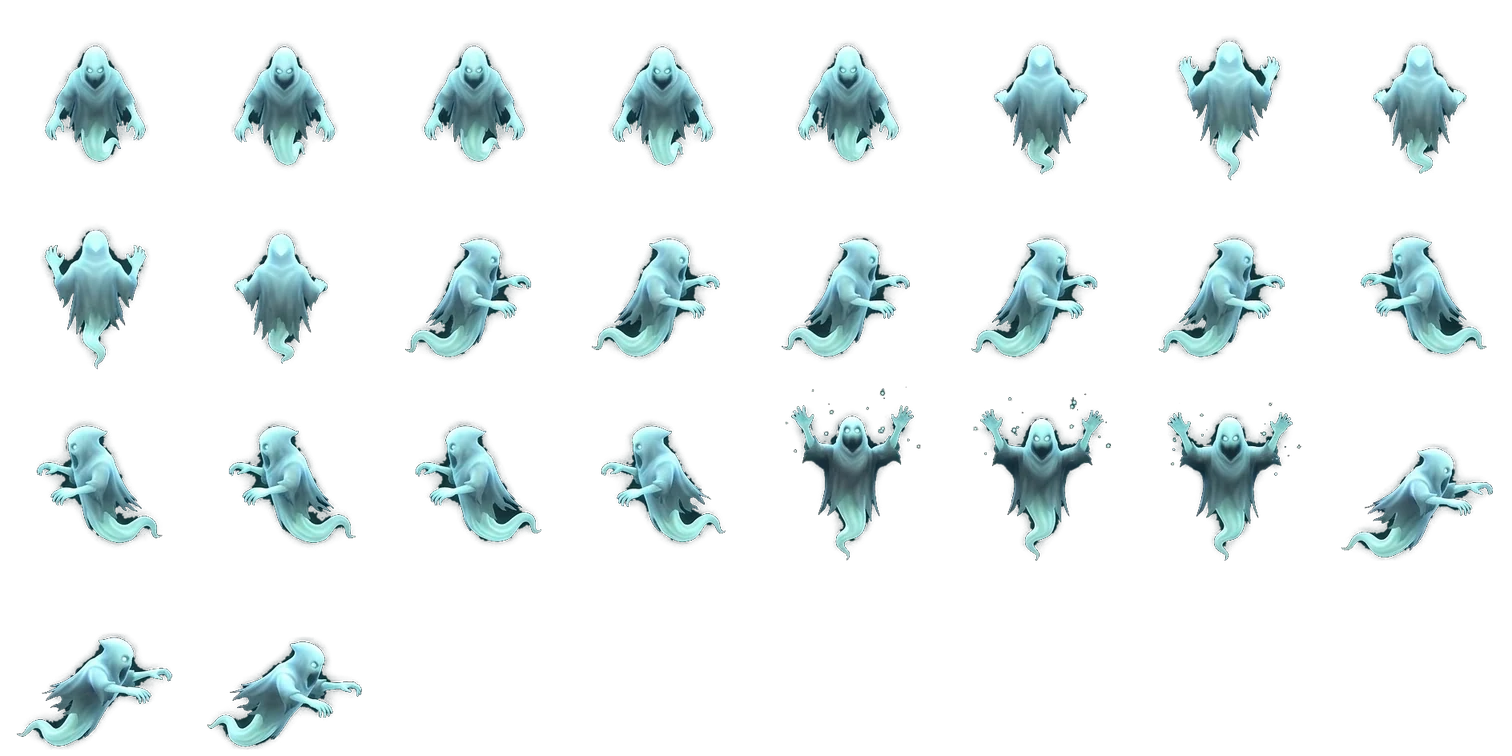
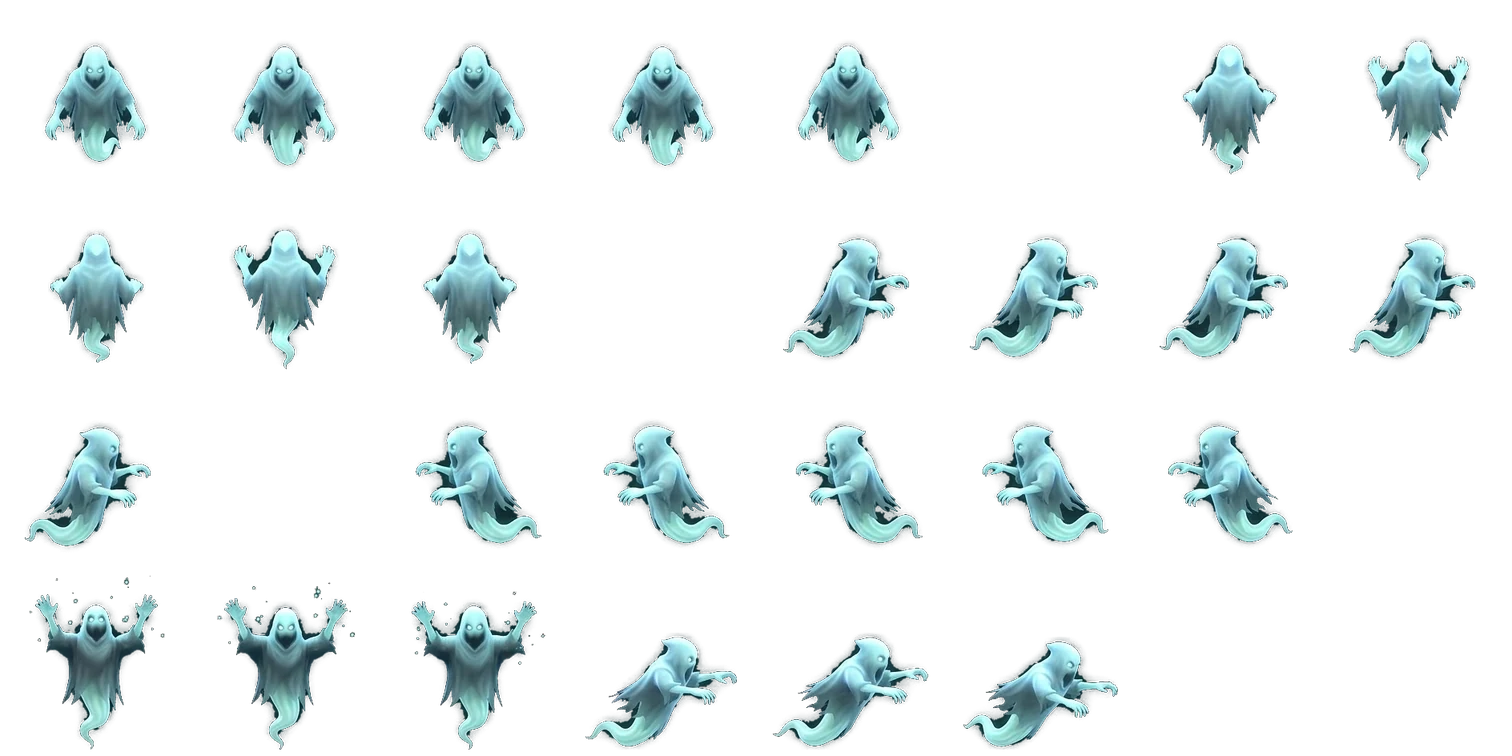
Thornbound: pixel-art heroes
Three supplied pixel-art sheets replace the painted heroes:
- Wanderer is the sorceress (keeps the casting pose when shooting still)
- Thornknight is the sword-and-shield queen
- Seer becomes the Shade, a dual-knife ninja

build_assets.py finds every figure on a pixel sheet and builds each
walk from a per-sheet list of usable frames: frames facing the wrong
way, swapping props mid-walk or repeating a neighbour are left out, and
the queen's left walk mirrors her right. Every atlas now has 6 walk slots
per direction and the game reads how many each sheet fills. The painted
wizard and rogue sheets are removed; monsters keep their painted art.

Claude-Session: https://claude.ai/code/session_014pmKHhP1nRV4NF2kc2q9vi

diff --git a/thornbound/game.js b/thornbound/game.js
@@ -14,21 +14,24 @@ const FINAL_FLOOR = 4;
 const DIRS = { n: [0, -1], s: [0, 1], w: [-1, 0], e: [1, 0] };
 const OPP = { n: 's', s: 'n', w: 'e', e: 'w' };
 
-// Painted sprite sheets (built by tools/build_assets.py). Every sheet has the same frames:
-// 4 walk rows of 5 (down, up, right, left) then attack poses A1-A3 (facing you) and B1-B3 (facing right).
-const FRAME_NAMES = ['down0', 'down1', 'down2', 'down3', 'down4', 'up0', 'up1', 'up2', 'up3', 'up4', 'right0', 'right1', 'right2', 'right3', 'right4',
-  'left0', 'left1', 'left2', 'left3', 'left4', 'A1', 'A2', 'A3', 'B1', 'B2', 'B3'];
+// Sprite sheets (built by tools/build_assets.py): pixel-art heroes and painted monsters. Every atlas
+// has the same frames: 6 walk slots per direction (down, up, right, left; WALK says how many a sheet
+// fills), then attack poses A1-A3 (facing you) and B1-B3 (facing right).
+const FRAME_NAMES = [...['down', 'up', 'right', 'left'].flatMap((d) => [0, 1, 2, 3, 4, 5].map((i) => d + i)), 'A1', 'A2', 'A3', 'B1', 'B2', 'B3'];
 const FRAME = Object.fromEntries(FRAME_NAMES.map((n, i) => [n, i]));
 const ATLAS = { cols: 8, cell: { 0.44: 104, 0.8: 189 }, foot: 8 }; // foot: source px between feet and cell bottom
 // which attack poses each sheet uses: [windup, strike] when facing you, and when facing sideways
 const POSES = {
-  wizard: { down: ['A1', 'A1'], side: ['B1', 'B1'] },
-  rogue: { down: ['A2', 'A3'], side: ['B2', 'B3'] },
+  sorceress: { down: ['A1', 'A1'], side: ['B1', 'B1'] },
+  queen: { down: ['A1', 'A2'], side: ['B1', 'B2'] },
+  ninja: { down: ['A1', 'A2'], side: ['B1', 'B2'] },
   skeleton: { down: ['A2', 'A3'], side: ['B1', 'B2'] },
   goblin: { down: ['A2', 'A3'], side: ['B1', 'B2'] },
   ghost: { down: ['A1', 'A2'], side: ['B1', 'B2'] },
 };
 const WORLD_SCALE = 0.245; // world units per source pixel for normal-size characters
+const HERO_SCALE = { queen: 0.8, ninja: 0.8, sorceress: 0.8 }; // pixel heroes use the sharper atlas
+const CASTERS = new Set(['sorceress']); // heroes with a casting pose when they shoot standing still
 
 const THEMES = [
   { name: 'Overgrown Ruins', tint: '#c9d3c1', dark: 0.30, wall: [60, 68, 72], moss: '#3f6234', rune: '#4fc3ff' },
@@ -102,7 +105,7 @@ const META = [
 const FEATS = {
   warlord: { name: "Warlord's Bane", desc: 'Slay the Goblin Warlord', reward: 'Unlocks the Thornknight' },
   banshee: { name: 'Silence', desc: 'Slay the Banshee', reward: 'Unlocks the Blood Rune skill' },
-  depths: { name: 'Into the Depths', desc: 'Reach floor 3', reward: 'Unlocks the Seer' },
+  depths: { name: 'Into the Depths', desc: 'Reach floor 3', reward: 'Unlocks the Shade' },
   twins: { name: 'Twin Fall', desc: 'Defeat the Twin Guardians', reward: 'Unlocks the Ricochet skill' },
   victory: { name: 'Unbound', desc: 'Destroy the Thornheart', reward: 'Unlocks the Revenant and Ascension' },
   slayer: { name: 'Slayer', desc: 'Slay 200 foes in total', reward: 'Unlocks the Orbiting Crystal skill' },
@@ -115,11 +118,11 @@ const FEATS = {
 const SKILL_LOCK = { vamp: 'banshee', bounce: 'twins', orbit: 'slayer', rear: 'hoarder', frost: 'level10' };
 
 const CHARS = {
-  wanderer: { name: 'Wanderer', desc: 'A travelling wizard. 3 hearts, balanced crystal shards.', lock: null, sheet: 'wizard',
+  wanderer: { name: 'Wanderer', desc: 'A travelling sorceress. 3 hearts, balanced crystal shards.', lock: null, sheet: 'sorceress',
     hp: 6, dmg: 3.5, fd: 0.42, speed: 118, range: 200, shot: 230, skills: {} },
-  thornknight: { name: 'Thornknight', desc: '4 hearts, heavy slow shards, slower feet. Starts with Thorn Mantle.', lock: 'warlord', sheet: 'rogue',
+  thornknight: { name: 'Thornknight', desc: '4 hearts, heavy slow shards, slower feet. Starts with Thorn Mantle.', lock: 'warlord', sheet: 'queen',
     hp: 8, dmg: 4.6, fd: 0.56, speed: 106, range: 175, shot: 215, skills: { mantle: 1 } },
-  seer: { name: 'Seer', desc: '2 hearts, rapid long-range shards. Starts with Seeking Runes.', lock: 'depths', sheet: 'wizard', tint: [55, 1.1, 1],
+  seer: { name: 'Shade', desc: 'A ninja. 2 hearts, rapid long-range shards. Starts with Seeking Runes.', lock: 'depths', sheet: 'ninja',
     hp: 4, dmg: 3.0, fd: 0.32, speed: 124, range: 240, shot: 250, skills: { homing: 1 } },
   revenant: { name: 'Revenant', desc: 'A risen skeleton. 3 hearts. Starts with Split Shard and an Orbiting Crystal.', lock: 'victory', sheet: 'skeleton', tint: [165, 0.8, 1.05],
     hp: 6, dmg: 3.2, fd: 0.44, speed: 120, range: 200, shot: 230, skills: { split: 1, orbit: 1 } },
@@ -203,20 +206,23 @@ function drawFrame(S, name, x, y, mirror, flash, tilt = 0) {
   ctx.restore();
 }
 // which frame to show for a walker facing face/flip, with an optional attack pose (1 windup, 2 strike)
-// Walk frames to cycle per sheet and row; by default all five. The wizard's front walk skips
-// the two frames where the art leaves his staff out, so it doesn't blink; the rogue's first
-// back-view frame is drawn facing you, so it's skipped too.
-const WALK = { wizard: { down: [0, 1, 3] }, rogue: { up: [1, 2, 3, 4] } };
+// How many walk frames each sheet fills per row; painted sheets have five. The pixel heroes'
+// counts come from build_assets.py, which picks and orders the usable frames.
+const WALK = {
+  queen: { down: 4, up: 5, right: 4, left: 4 },
+  ninja: { down: 5, up: 5, right: 4, left: 4 },
+  sorceress: { down: 4, up: 3, right: 5, left: 5 },
+};
 function poseFrame(S, face, flip, anim, moving, pose) {
   if (pose) { const set = face === 'side' ? S.poses.side : S.poses.down; return [set[Math.min(1, pose - 1)], face === 'side' && flip]; }
   const row = face === 'side' ? (flip ? 'left' : 'right') : face;
-  const seq = (WALK[S.kind] && WALK[S.kind][row]) || [0, 1, 2, 3, 4];
-  return [row + (moving ? seq[Math.floor(anim) % seq.length] : seq[0]), false];
+  const n = (WALK[S.kind] && WALK[S.kind][row]) || 5;
+  return [row + (moving ? Math.floor(anim) % n : 0), false];
 }
 // A small bounce and sway on every step, so walking always reads as walking even where
 // neighbouring frames in the art are nearly the same.
-// The skeleton and the rogue get a heavier stomp, since their side-view walk frames barely change.
-const STEP = { skeleton: [1.9, 0.055], rogue: [1.9, 0.055] };
+// The skeleton gets a heavier stomp, since its walk frames barely change.
+const STEP = { skeleton: [1.9, 0.055] };
 function stepMotion(anim, moving, kind) {
   if (!moving) return [0, 0];
   const [lift, sway] = STEP[kind] || [1.4, 0.045];
@@ -233,7 +239,7 @@ function glowSprite(r, color) {
 const GLOW = {};
 const LIGHT = glowSprite(64, 'rgba(255,255,255,1)');
 
-// ---- hero sprite sheets, one recoloured wizard per character
+// ---- hero sprite sheets, one per character
 const CHAR_SHEETS = {};
 // hearts for the HUD (and, scaled up, the Thornheart itself), drawn as smooth shapes
 const HEARTS = {};
@@ -1538,8 +1544,8 @@ function drawPlayer() {
   if (p.inv > 0 && Math.floor(p.inv * 14) % 2 === 0 && !G.dying) return;
   const moving = hyp(p.vx, p.vy) > 8;
   // the casting pose only shows when standing still, so the legs keep walking while shooting
-  // only the wizard has a casting pose; sword-and-shield heroes keep their stance when shooting
-  const cast = p.castT > 0 && !moving && p.face !== 'up' && S.kind === 'wizard';
+  // only casters have a casting pose; blade-wielding heroes keep their stance when shooting
+  const cast = p.castT > 0 && !moving && p.face !== 'up' && CASTERS.has(S.kind);
   const [name, mirror] = poseFrame(S, p.face, p.flip, p.anim, moving, cast ? 2 : 0);
   const [bob, tilt] = stepMotion(p.anim, moving, S.kind);
   ctx.save();
@@ -1806,7 +1812,7 @@ function drawPortrait(pc, S, glow) {
   x.clearRect(0, 0, W, H);
   if (glow) { const g = x.createRadialGradient(W / 2, H * 0.55, 4, W / 2, H * 0.55, W * 0.6); g.addColorStop(0, 'rgba(79,195,255,0.28)'); g.addColorStop(1, 'rgba(0,0,0,0)'); x.fillStyle = g; x.fillRect(0, 0, W, H); }
   const k = Math.min(W / (c * 0.6), H / (c * 0.8)), w = c * k;
-  x.drawImage(S.img, (i % ATLAS.cols) * c, Math.floor(i / ATLAS.cols) * c, c, c, (W - w) / 2, H - w + ATLAS.foot * k * 0.44, w, w);
+  x.drawImage(S.img, (i % ATLAS.cols) * c, Math.floor(i / ATLAS.cols) * c, c, c, (W - w) / 2, H - w + S.foot * k, w, w);
 }
 function lvKey(k) {
   if (!LV) return;
@@ -1864,7 +1870,8 @@ async function boot() {
   await Promise.all([
     loadImg('goblin', 'assets/goblin@0.44.webp'), loadImg('goblinBig', 'assets/goblin@0.8.webp'),
     loadImg('ghost', 'assets/ghost@0.44.webp'), loadImg('ghostBig', 'assets/ghost@0.8.webp'),
-    loadImg('wizard', 'assets/wizard@0.44.webp'), loadImg('rogue', 'assets/rogue@0.44.webp'), loadImg('skeleton', 'assets/skeleton@0.44.webp'),
+    loadImg('sorceress', 'assets/sorceress@0.8.webp'), loadImg('queen', 'assets/queen@0.8.webp'), loadImg('ninja', 'assets/ninja@0.8.webp'),
+    loadImg('skeleton', 'assets/skeleton@0.44.webp'),
     loadImg('c16', 'assets/crystal32.webp'), loadImg('c32', 'assets/crystal64.webp'), loadImg('floor', 'assets/floor.jpg'),
   ]);
   try { await Promise.all(['700 12px "Cinzel"', '400 12px "Alegreya Sans"', '700 12px "Alegreya Sans"'].map((f) => document.fonts.load(f))); } catch (e) {}
@@ -1878,7 +1885,7 @@ async function boot() {
   SHEETS.ghostB = makeSheet('ghost', 0.8, variant(IMG.ghostBig, 140, 1.4, 1), BOSS);
   GLOW.cyan = glowSprite(16, 'rgba(90,200,255,0.9)'); GLOW.teal = glowSprite(16, 'rgba(110,240,210,0.8)'); GLOW.violet = glowSprite(16, 'rgba(200,110,255,0.85)');
   GLOW.green = glowSprite(16, 'rgba(140,220,90,0.7)'); GLOW.red = glowSprite(16, 'rgba(255,80,90,0.8)'); GLOW.gold = glowSprite(16, 'rgba(255,200,100,0.8)');
-  for (const id in CHARS) { const c = CHARS[id], img = IMG[c.sheet]; CHAR_SHEETS[id] = makeSheet(c.sheet, 0.44, c.tint ? variant(img, ...c.tint) : img); }
+  for (const id in CHARS) { const c = CHARS[id], img = IMG[c.sheet]; CHAR_SHEETS[id] = makeSheet(c.sheet, HERO_SCALE[c.sheet] || 0.44, c.tint ? variant(img, ...c.tint) : img); }
   buildHearts();
   demoRoom(); showTitle();
   requestAnimationFrame((t) => { last = t; requestAnimationFrame(frame); });

diff --git a/thornbound/sw.js b/thornbound/sw.js
@@ -1,7 +1,7 @@
 // Offline cache for Thornbound. Bump VERSION whenever any cached file changes.
-const VERSION = 'thornbound-v9';
+const VERSION = 'thornbound-v10';
 const ASSETS = ['./', './index.html', './game.js', './manifest.webmanifest', './icon-180.png', './icon-192.png', './icon-512.png',
-  './assets/wizard@0.44.webp', './assets/rogue@0.44.webp', './assets/skeleton@0.44.webp', './assets/goblin@0.44.webp', './assets/goblin@0.8.webp',
+  './assets/sorceress@0.8.webp', './assets/queen@0.8.webp', './assets/ninja@0.8.webp', './assets/skeleton@0.44.webp', './assets/goblin@0.44.webp', './assets/goblin@0.8.webp',
   './assets/ghost@0.44.webp', './assets/ghost@0.8.webp', './assets/crystal32.webp', './assets/crystal64.webp', './assets/crystal160.webp',
   './assets/floor.jpg', './assets/levelup.webp'];
 

diff --git a/thornbound/tools/build_assets.py b/thornbound/tools/build_assets.py
@@ -1,10 +1,13 @@
 # Turns the source art in tools/source-art/ into game-ready assets in assets/.
-# Sprite sheets share one layout: 4 walk rows x 5 frames (down, up, right, left) on the
+# Painted sheets share one layout: 4 walk rows x 5 frames (down, up, right, left) on the
 # left, and two columns of three attack poses on the right (A = facing you, B = facing right).
+# Pixel-art hero sheets are laid out more freely, so each one lists which figures to use (PIXEL).
+# Every atlas has 6 walk slots per direction (painted sheets leave the 6th empty), then A1-A3, B1-B3.
 # Backgrounds are removed with soft edges so glows survive, while dark armour stays solid.
 # Usage: python3 tools/build_assets.py   (prints the frame table pasted into game.js)
 import os, json
 import numpy as np
+from scipy import ndimage
 from PIL import Image, ImageDraw, ImageFilter
 
 HERE = os.path.dirname(os.path.abspath(__file__))
@@ -18,6 +21,8 @@ ATK_COLS = [(935, 1155), (1155, 1376)]     # A, B
 ATK_ROWS = [(0, 245), (245, 490), (490, 768)]
 CELL_W, CELL_H, FOOT = 236, 236, 8         # source-pixel cell; feet sit FOOT px above its bottom
 COLS = 8
+SLOTS = 6                                  # walk frames per direction in every atlas
+DIRS = ['down', 'up', 'right', 'left']
 
 
 # Glowing art (ghosts, the crystal) keeps a long soft ramp so its glow fades out; solid
@@ -97,6 +102,7 @@ def frames_of(sheet):
             cell = Image.new('RGBA', (CELL_W, CELL_H))
             cell.paste(zone, (round(CELL_W / 2 - centre), CELL_H - FOOT - ROW_H), zone)
             out.append((f'{name}{i}', cell))
+        out += [(f'{name}{i}', Image.new('RGBA', (CELL_W, CELL_H))) for i in range(len(zones), SLOTS)]
     for c, (x0, x1) in enumerate(ATK_COLS):
         for r, (y0, y1) in enumerate(ATK_ROWS):
             zone = sheet.crop((x0, y0, x1, y1))
@@ -112,10 +118,103 @@ def frames_of(sheet):
     return out
 
 
+# Pixel-art hero sheets. Figures are found automatically (one per connected blob, with stray
+# sparkles and slash trails joined to the nearest figure) and numbered per row, left to right.
+# walk: direction -> (row, [figure numbers]) in play order, or 'mirror <direction>';
+# poses: A1-A3 / B1-B3 -> (row, figure number[, 'mirror']). Figures facing the wrong way, or
+# drawn with a different prop than their row, are simply left out.
+PIXEL_SCALE = 0.58      # sheet px -> cell px, so pixel heroes stand as tall as the painted cast
+PIXEL = {
+    'queen': dict(attack_x=1900,
+                  walk={'down': (0, [0, 1, 2, 5]), 'up': (1, [1, 2, 3, 4, 5]),            # front 4 near-repeats 6; 5 swings the sword out
+                        'right': (2, [2, 5, 4, 5]), 'left': 'mirror right'},  # only the shield-up side frames
+                  poses={'A1': (0, 6), 'A2': (1, 6), 'A3': (2, 7), 'B1': (0, 6), 'B2': (1, 6), 'B3': (3, 6)}),
+    'ninja': dict(attack_x=2200,
+                  walk={'down': (0, [0, 1, 2, 3, 4]), 'up': (1, [0, 1, 2, 4, 5]),     # near-duplicate frames dropped
+                        'right': (2, [0, 1, 2, 4]), 'left': (3, [0, 1, 2, 4])},
+                  poses={'A1': (1, 6), 'A2': (0, 6), 'A3': (1, 6), 'B1': (3, 6, 'mirror'), 'B2': (2, 6, 'mirror'), 'B3': (3, 6, 'mirror')}),
+    'sorceress': dict(attack_x=2200,
+                      walk={'down': (0, [0, 1, 2, 4]), 'up': (1, [0, 1, 4]),         # front 3 faces away; back 2-3 wear the hood
+                            'right': (2, [0, 1, 2, 3, 4]), 'left': (3, [0, 1, 2, 3, 4])},
+                      poses={'A1': (0, 5), 'A2': (1, 5), 'A3': (0, 5), 'B1': (1, 6), 'B2': (0, 6), 'B3': (2, 5)}),
+}
+
+
+def pixel_figures(img, attack_x):
+    """Find the figures on a pixel sheet: [[(mask, bbox), ...] per row], walk figures first."""
+    a = np.asarray(img.convert('RGB')).astype(int)
+    lab, _ = ndimage.label(ndimage.binary_dilation(a.max(2) > 40, iterations=6))
+    objs = [(i + 1, sl) for i, sl in enumerate(ndimage.find_objects(lab)) if sl is not None]
+    big = [(i, sl) for i, sl in objs if sl[0].stop - sl[0].start > 150]
+    owner = {i: i for i, _ in big}
+    for i, sl in objs:  # sparkles, slash trails: join the nearest figure
+        if i in owner:
+            continue
+        cy, cx = (sl[0].start + sl[0].stop) / 2, (sl[1].start + sl[1].stop) / 2
+        owner[i] = min(big, key=lambda b: max(0, b[1][1].start - cx, cx - b[1][1].stop) + max(0, b[1][0].start - cy, cy - b[1][0].stop))[0]
+    lab = np.vectorize(lambda v: owner.get(v, 0))(lab)
+    figs = []
+    for i, _ in big:
+        ys, xs = np.nonzero(lab == i)
+        figs.append((i, (xs.min(), ys.min(), xs.max() + 1, ys.max() + 1)))
+    rows = [[] for _ in range(4)]
+    for i, (x0, y0, x1, y1) in figs:
+        rows[min(3, int(y1 / (img.height / 4)))].append((i, (x0, y0, x1, y1)))
+    out = []
+    for r in rows:  # walk figures left to right, then attack figures left to right
+        r.sort(key=lambda f: ((f[1][0] + f[1][2]) / 2 >= attack_x, f[1][0]))
+        out.append([((lab == i), box) for i, box in r])
+    return out
+
+
+def pixel_frames(name):
+    spec = PIXEL[name]
+    src = Image.open(f'{SRC}/{name}-sheet.jpg')
+    sheet = cutout(src, glow=False)
+    rows = pixel_figures(src, spec['attack_x'])
+
+    def piece(r, k, mirror=False):
+        mask, (x0, y0, x1, y1) = rows[r][k]
+        a = np.asarray(sheet).copy(); a[..., 3] = np.where(mask, a[..., 3], 0)
+        p = Image.fromarray(a, 'RGBA').crop((x0, y0, x1, y1))
+        p = p.resize((round(p.width * PIXEL_SCALE), round(p.height * PIXEL_SCALE)), Image.LANCZOS)
+        return p.transpose(Image.FLIP_LEFT_RIGHT) if mirror else p, y1
+
+    def place(p, centre, bottom_gap):
+        cell = Image.new('RGBA', (CELL_W, CELL_H))
+        cell.paste(p, (round(CELL_W / 2 - centre), CELL_H - FOOT - p.height - bottom_gap), p)
+        return cell
+
+    walks = {}
+    for d in DIRS:
+        w = spec['walk'][d]
+        if isinstance(w, str):
+            walks[d] = [p.transpose(Image.FLIP_LEFT_RIGHT) for p in walks[w.split()[1]]]
+            continue
+        r, ks = w
+        pieces = [piece(r, k) for k in ks]
+        ground = max(y1 for _, y1 in pieces)            # one feet line per row: lifted feet stay lifted
+        centre = sum(torso_x(p) for p, _ in pieces) / len(pieces)
+        walks[d] = [place(p, centre, round((ground - y1) * PIXEL_SCALE)) for p, y1 in pieces]
+    out = []
+    for d in DIRS:
+        out += [(f'{d}{i}', walks[d][i] if i < len(walks[d]) else Image.new('RGBA', (CELL_W, CELL_H))) for i in range(SLOTS)]
+    for n in ['A1', 'A2', 'A3', 'B1', 'B2', 'B3']:
+        r, k, *m = spec['poses'][n]
+        p, _ = piece(r, k, bool(m))
+        out.append((n, place(p, torso_x(p), 0)))
+    walk_counts = {d: len(walks[d]) for d in DIRS}
+    return out, walk_counts
+
+
 def atlas(name, scales):
-    sheet = cutout(Image.open(f'{SRC}/{name}-sheet.jpg'), glow=name in GLOWY)
-    frames = frames_of(sheet)
+    if name in PIXEL:
+        frames, walk = pixel_frames(name)
+    else:
+        frames, walk = frames_of(cutout(Image.open(f'{SRC}/{name}-sheet.jpg'), glow=name in GLOWY)), None
     meta = {'frames': [n for n, _ in frames], 'cols': COLS}
+    if walk:
+        meta['walk'] = walk
     for s in scales:
         w, h = round(CELL_W * s), round(CELL_H * s)
         rows = (len(frames) + COLS - 1) // COLS
@@ -131,7 +230,7 @@ def atlas(name, scales):
 def main():
     os.makedirs(OUT, exist_ok=True)
     meta = {}
-    for name, scales in [('wizard', [0.44]), ('rogue', [0.44]), ('skeleton', [0.44]),
+    for name, scales in [('queen', [0.8]), ('ninja', [0.8]), ('sorceress', [0.8]), ('skeleton', [0.44]),
                          ('goblin', [0.44, 0.8]), ('ghost', [0.44, 0.8])]:
         meta[name] = atlas(name, scales)
     crystal = cutout(Image.open(f'{SRC}/crystal.jpg')).crop((110, 120, 920, 900))
